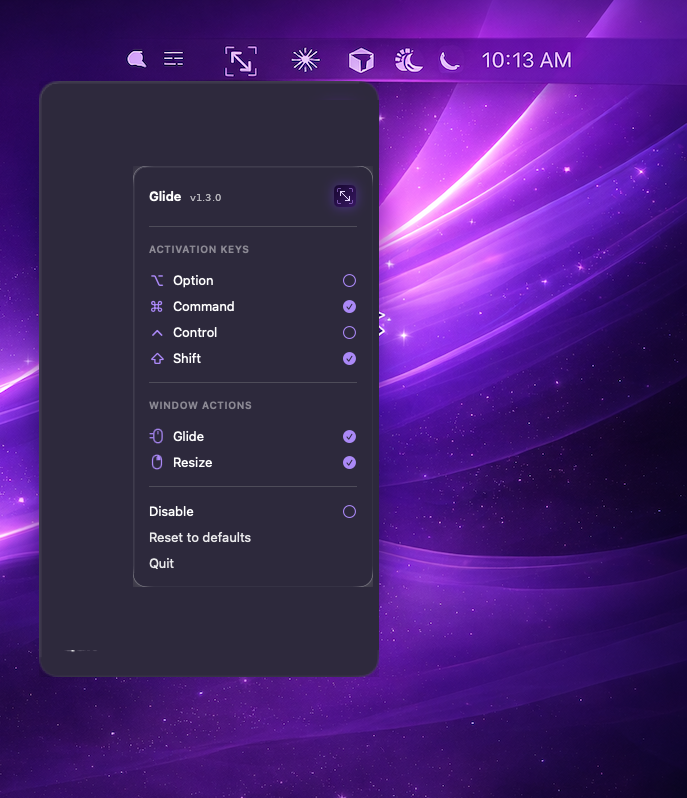
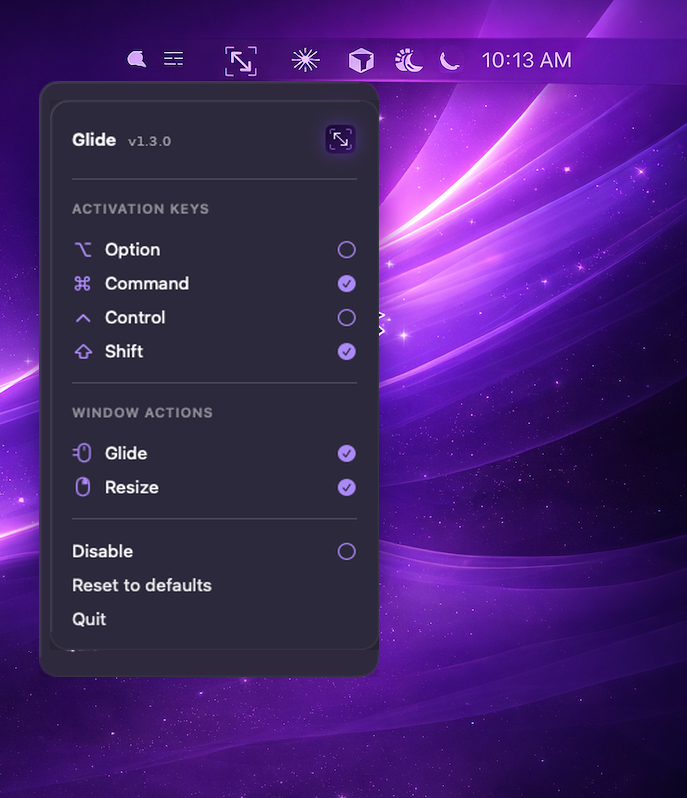
Scale dropdown to fill entire menubar card region
The rendered dropdown PNG is smaller than the menu card in the desktop
capture. Scale it to the full card bounds instead of pasting at 1:1 with
empty margins.

diff --git a/scripts/patch-screenshot-version.py b/scripts/patch-screenshot-version.py
@@ -107,17 +107,15 @@ def composite_menubar(dropdown: Path, output: Path) -> None:
     card_y = int(card["y"])
     card_w = int(card["width"])
     card_h = int(card["height"])
-    drop_x = int(menubar["dropdown"]["x"])
-    drop_y = int(menubar["dropdown"]["y"])
-
     overlay = Image.open(dropdown).convert("RGBA")
     canvas = Image.open(base).convert("RGBA")
     card_color = overlay.getpixel((8, 32))[:3]
 
-    # Cover the full captured menu card (wider/taller than the rendered dropdown PNG).
-    card_fill = Image.new("RGBA", (card_w, card_h), card_color + (255,))
-    canvas.paste(card_fill, (card_x, card_y))
-    canvas.paste(overlay, (drop_x, drop_y), overlay)
+    # Flatten transparency before scaling so rounded corners stay opaque on the wallpaper base.
+    flattened = Image.new("RGBA", overlay.size, card_color + (255,))
+    flattened = Image.alpha_composite(flattened, overlay)
+    scaled = flattened.resize((card_w, card_h), Image.Resampling.LANCZOS)
+    canvas.paste(scaled, (card_x, card_y))
     canvas.save(output)
     print(f"Composited {output}")
 

diff --git a/RELEASE.md b/RELEASE.md
@@ -139,10 +139,10 @@ release **after** the release zip is published — otherwise visitors get a 404.
 > the website until `site/index.html` is committed and merged to `main`. Step 2 keeps README
 > and site menu screenshots in sync with the release version.
 
-If the menu dropdown moves or resizes, update `scripts/screenshot-layout.json` (paste
-coordinates) and replace `site/menubar-base.png` only when the desktop/menubar background
-changes. The layout includes a `card` rectangle (full captured menu bounds) that is filled
-before compositing the narrower rendered dropdown PNG on top.
+If the menu dropdown moves or resizes, update the `card` rectangle in
+`scripts/screenshot-layout.json` and replace `site/menubar-base.png` only when the
+desktop/menubar background changes. The dropdown PNG is scaled to the card bounds when
+compositing `site/menubar.png`.
 
 ---
 
